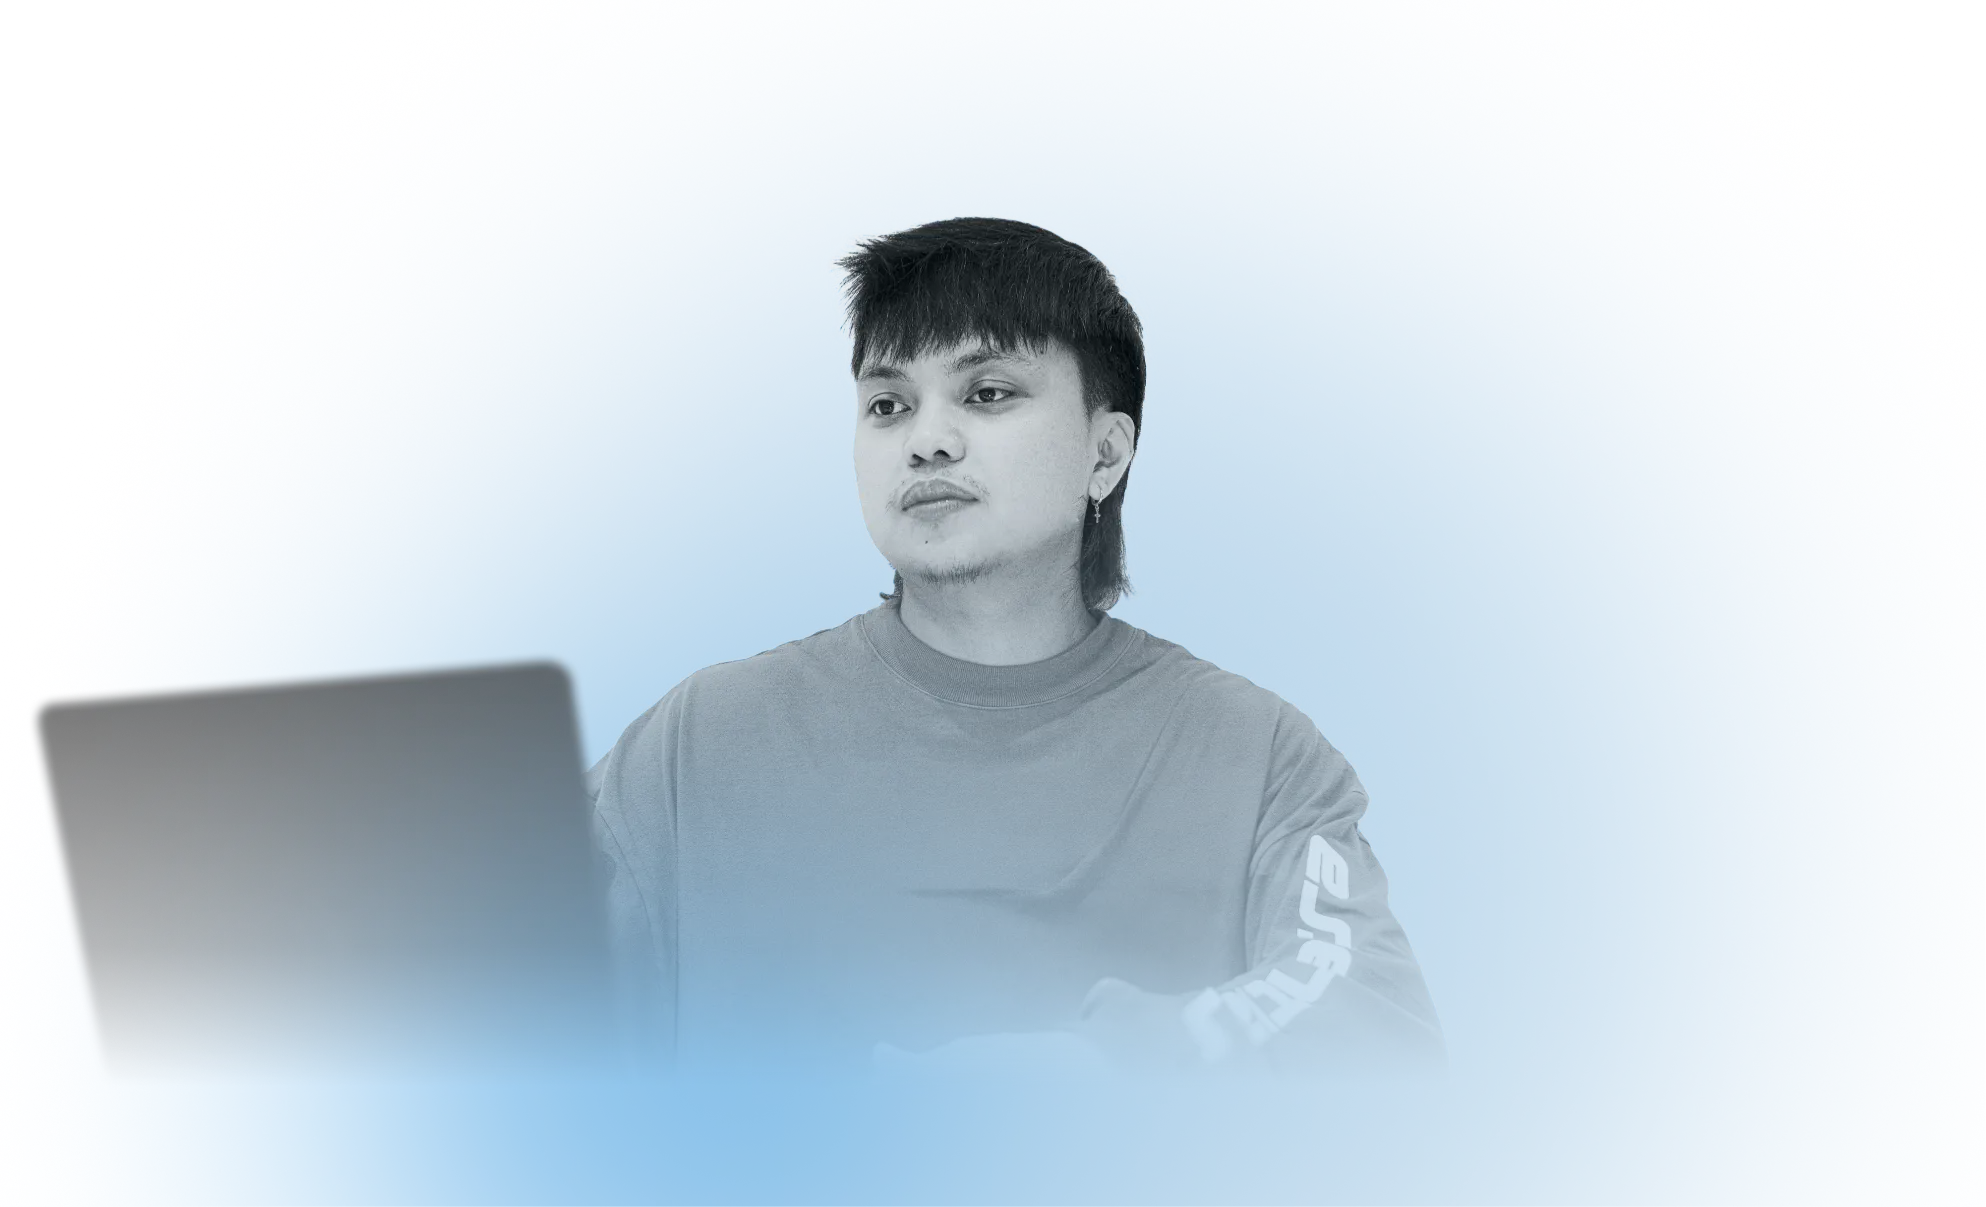
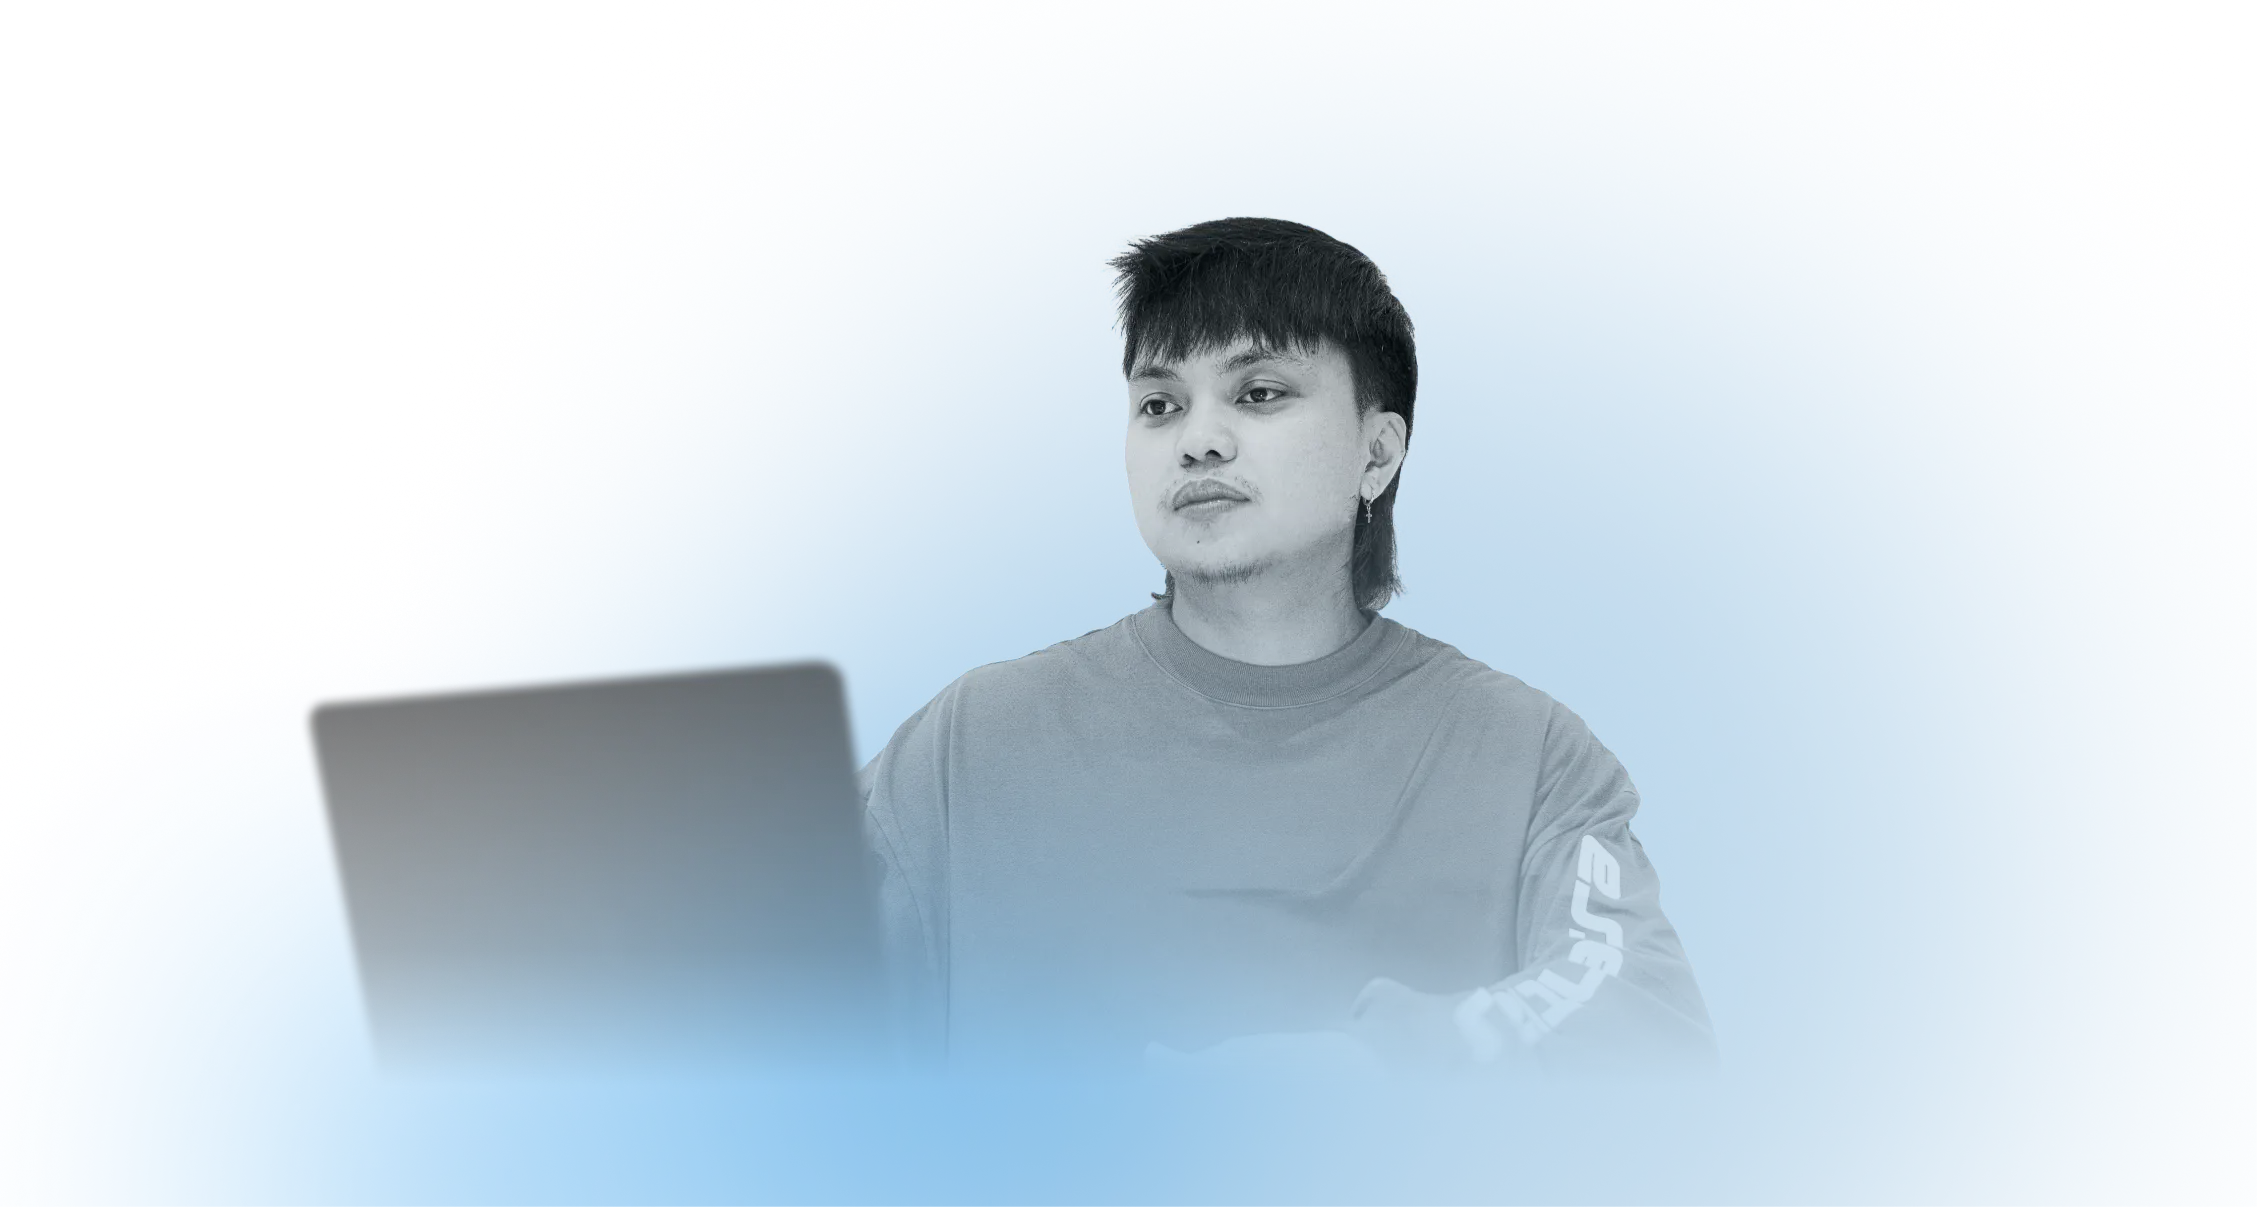
add portrait in hero

Changed region(s): [[0.0, 0.1533, 0.7492, 0.8583], [0.5932, 0.8277, 0.6244, 0.8583]]

diff --git a/app/pages/index.vue b/app/pages/index.vue
@@ -7,7 +7,7 @@
       <div class="hidden lg:block">
         <!-- Logo + Branding badge with animated tracking line (up then right) -->
         <div
-          class="absolute right-[40px] top-[142px] hidden lg:flex flex-row items-start"
+          class="absolute right-[40px] top-[152px] hidden lg:flex flex-row items-start"
         >
           <svg
             width="94"
@@ -78,7 +78,7 @@
         </div>
         <!-- FE Development badge with animated tracking line (right to left then down to up) -->
         <div
-          class="absolute right-[394px] top-[300px] hidden lg:flex flex-col items-start"
+          class="absolute right-[372px] top-[300px] hidden lg:flex flex-col items-start"
         >
           <div class="tracking-badge-reveal-dev relative -left-[66px]">
             <Badge variant="dev">FE Development</Badge>
@@ -116,7 +116,7 @@
       <img
         src="/images/me.webp"
         class="absolute bottom-[0px] -right-[420px] max-w-none hidden lg:block animate-slideUp"
-        width="1460px"
+        width="1630px"
         alt="Hero Image"
       />
 

diff --git a/app/components/AppCursor.vue b/app/components/AppCursor.vue
@@ -6,23 +6,16 @@
     <!-- Cursor arrow -->
     <div class="absolute" :style="{ left: `${pos.x}px`, top: `${pos.y}px` }">
       <svg
-        width="18"
+        width="20"
         height="20"
-        viewBox="0 0 18 20"
+        viewBox="0 0 15 15"
         fill="none"
         xmlns="http://www.w3.org/2000/svg"
       >
         <path
-          d="M1 1L1 18L14.5 10L1 1Z"
-          fill="white"
+          d="M9.15388 9.6998L7.49015 13.7588C7.15344 14.5803 5.99294 14.5883 5.64491 13.7716L0.584656 1.89652C0.231567 1.06791 1.06802 0.231455 1.89663 0.584544L13.7717 5.64479C14.5885 5.99283 14.5804 7.15333 13.7589 7.49004L9.69991 9.15376C9.45213 9.25532 9.25544 9.45202 9.15388 9.6998Z"
+          :fill="hovering ? '#0c8ce9' : 'black'"
           stroke="white"
-          stroke-width="3"
-          stroke-linejoin="round"
-          stroke-linecap="round"
-        />
-        <path
-          d="M1 1L1 18L14.5 10L1 1Z"
-          :fill="hovering ? '#0c8ce9' : '#1a1a1a'"
         />
       </svg>
     </div>
